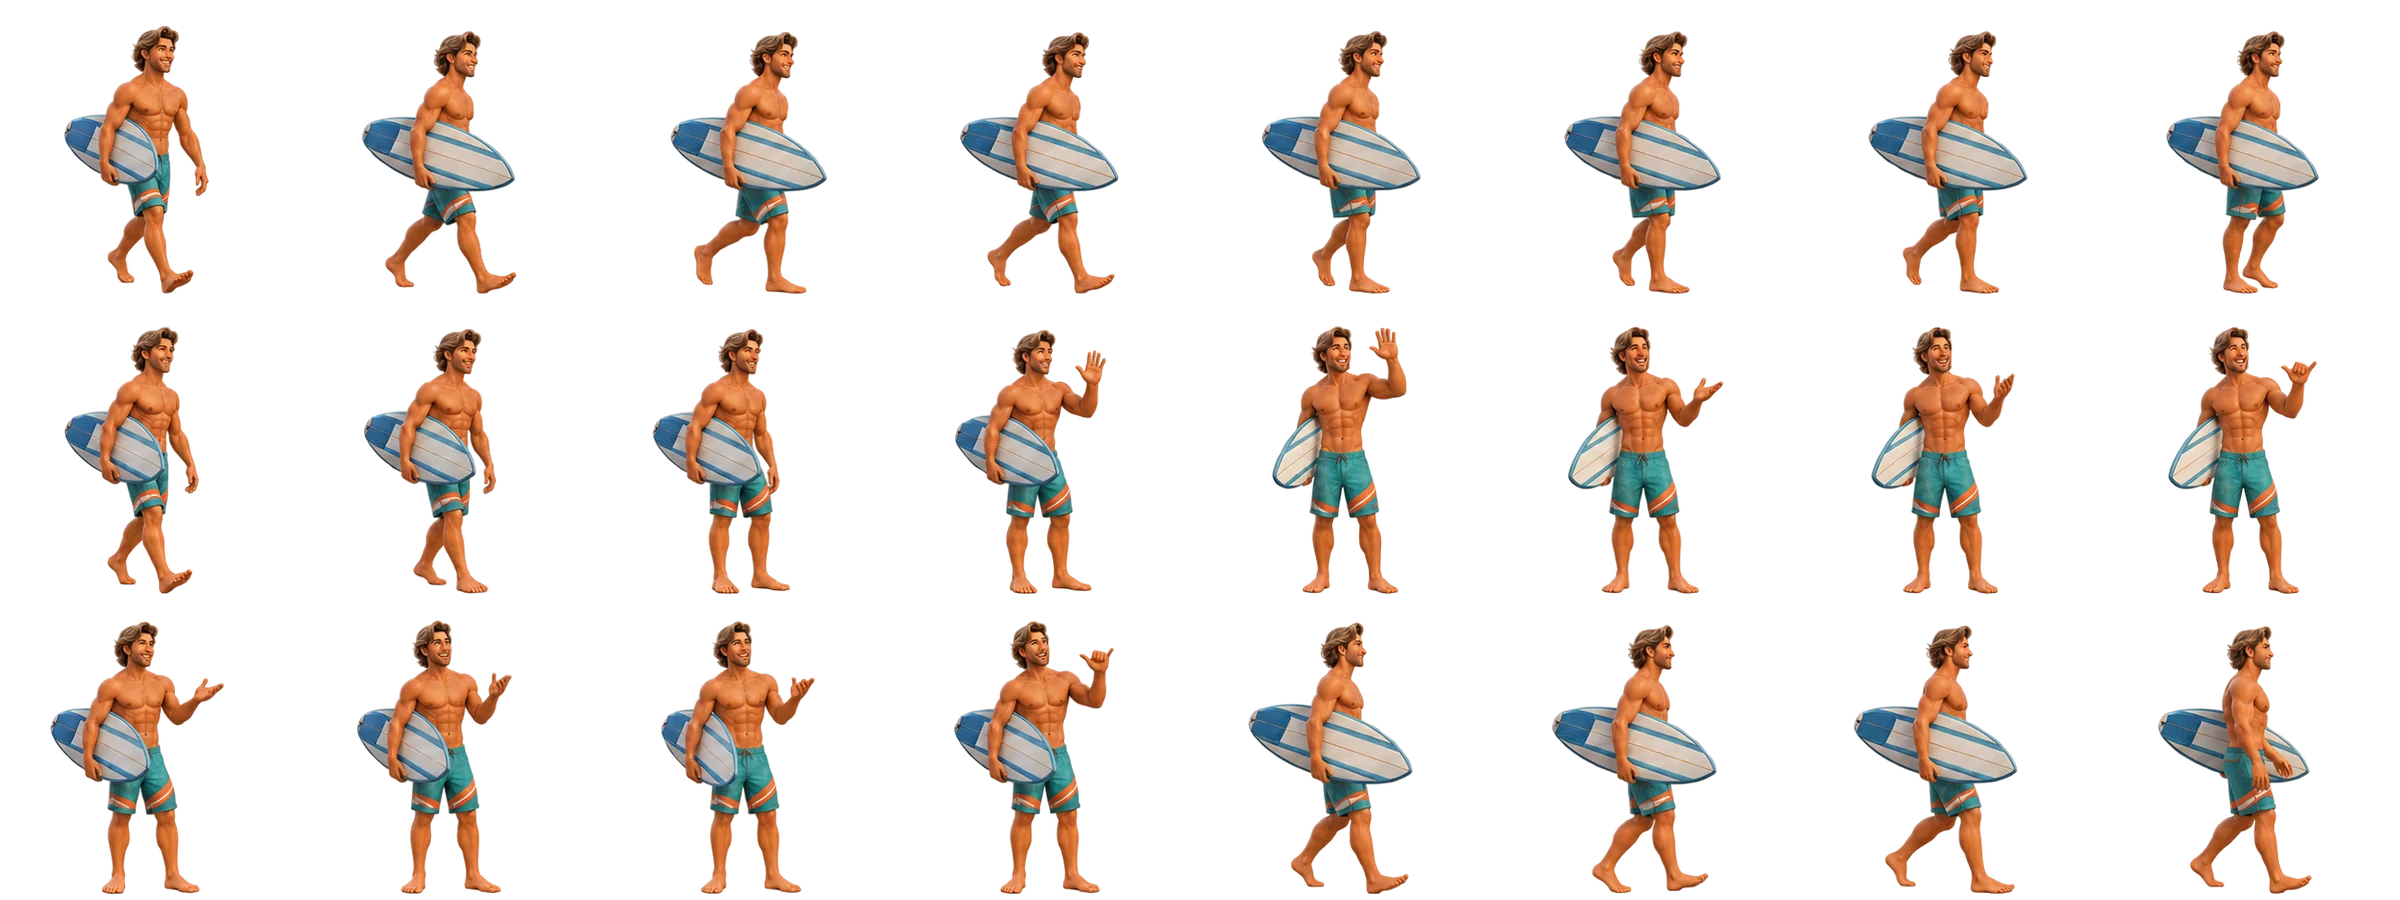
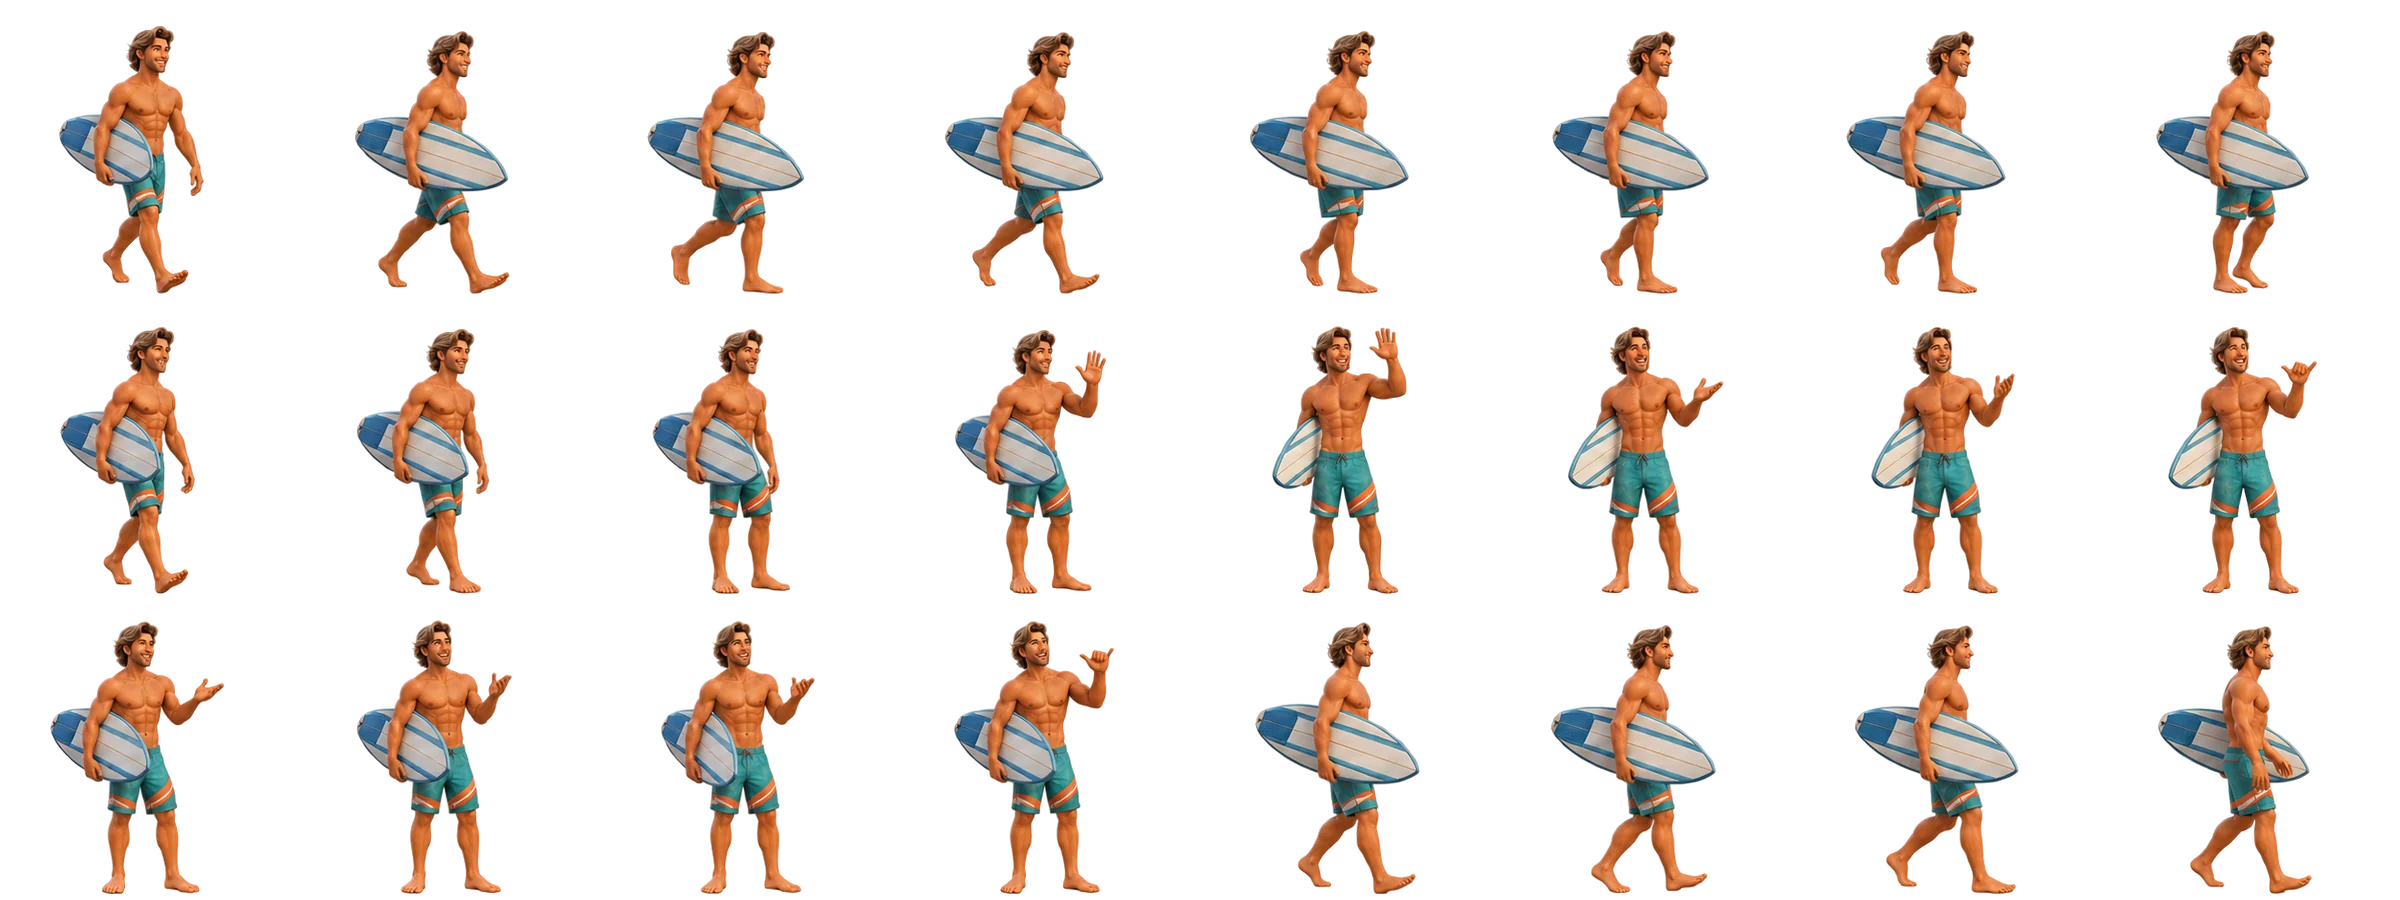
Surfe: Niko e Zé surfista sem vai e volta ao andar (quadros centralizados pelo corpo, passo medido)
Claude-Session: https://claude.ai/code/session_01Gorsa4M7VVk4qQnMQNhv6S

diff --git a/surf-ze.js b/surf-ze.js
@@ -28,13 +28,13 @@ const walk=(atlas,list,step)=>Object.assign(seq(atlas,list),{step});
 const range=n=>Array.from({length:n},(_,i)=>i);
 /* per-frame advance (fraction of the sprite box), measured by following the foot on the ground from one
    frame to the next; the drawings are not perfectly even, so one number per frame keeps the feet planted */
-const STEPS={"ze":[0.021,0.022,0.0264,0.0283,0.0273,0.0229,0.0146,0.0161,0.022,0.0225,0.02,0.0132,0.0146,0.0249,0.0234,0.0151,0.0142,0.0122,0.0127,0.0205,0.022,0.0166,0.0142,0.0181],"brisa":[0.0171,0.0234,0.0312,0.0327,0.0303,0.0234,0.0186,0.021,0.0176,0.0107,0.0186,0.0269,0.0264,0.0308,0.0352,0.0322,0.0264,0.0254,0.0273,0.0254,0.0234,0.02,0.0161,0.0161],"jorge":[0.0206,0.0261,0.0226,0.0234,0.0205,0.0132,0.0197,0.0295,0.028,0.0234,0.0205,0.0166,0.0201,0.0242,0.0227,0.0217,0.0148,0.0153,0.0277,0.0321,0.028,0.0195,0.0093,0.0093],"jorge-chuva":[0.0171,0.0244,0.0205,0.019,0.022,0.0181,0.0171,0.0225,0.0229,0.0239,0.0244,0.0181,0.0171,0.0186,0.0156,0.0176,0.0161,0.0151,0.0239,0.0273,0.0254,0.021,0.0093,0.0059],"jorge-frio":[0.0222,0.0327,0.0305,0.0278,0.022,0.0122,0.0183,0.0249,0.022,0.0264,0.03,0.0278,0.0271,0.0308,0.03,0.0244,0.0229,0.0276,0.0349,0.0349,0.0251,0.0176,0.0137,0.0117]};
-const WALK={ze:walk('walkZe',range(24),STEPS.ze),jorge:walk('walkJorge',range(24),STEPS.jorge),brisa:walk('walkBrisa',range(24),STEPS.brisa),niko:walk('niko',range(10),.035),
+const STEPS={"ze-surf":[0.0164,0.0158,0.0152,0.0158,0.0164,0.0167,0.017,0.0167,0.0164,0.0164],"ze":[0.021,0.022,0.0264,0.0283,0.0273,0.0229,0.0146,0.0161,0.022,0.0225,0.02,0.0132,0.0146,0.0249,0.0234,0.0151,0.0142,0.0122,0.0127,0.0205,0.022,0.0166,0.0142,0.0181],"brisa":[0.0171,0.0234,0.0312,0.0327,0.0303,0.0234,0.0186,0.021,0.0176,0.0107,0.0186,0.0269,0.0264,0.0308,0.0352,0.0322,0.0264,0.0254,0.0273,0.0254,0.0234,0.02,0.0161,0.0161],"jorge":[0.0206,0.0261,0.0226,0.0234,0.0205,0.0132,0.0197,0.0295,0.028,0.0234,0.0205,0.0166,0.0201,0.0242,0.0227,0.0217,0.0148,0.0153,0.0277,0.0321,0.028,0.0195,0.0093,0.0093],"jorge-chuva":[0.0171,0.0244,0.0205,0.019,0.022,0.0181,0.0171,0.0225,0.0229,0.0239,0.0244,0.0181,0.0171,0.0186,0.0156,0.0176,0.0161,0.0151,0.0239,0.0273,0.0254,0.021,0.0093,0.0059],"jorge-frio":[0.0222,0.0327,0.0305,0.0278,0.022,0.0122,0.0183,0.0249,0.022,0.0264,0.03,0.0278,0.0271,0.0308,0.03,0.0244,0.0229,0.0276,0.0349,0.0349,0.0251,0.0176,0.0137,0.0117]};
+const WALK={ze:walk('walkZe',range(24),STEPS.ze),jorge:walk('walkJorge',range(24),STEPS.jorge),brisa:walk('walkBrisa',range(24),STEPS.brisa),niko:walk('niko',range(10),.019),/* Niko's sheet is not an even cycle; average step */
  jorgeRain:walk('walkJorgeRain',range(24),STEPS['jorge-chuva']),jorgeCold:walk('walkJorgeCold',range(24),STEPS['jorge-frio'])};
 /* which outfit rows have a walk cycle that matches the chat pose (0 mild, 1 rain, 2 cold, 3 hot) */
 const JORGE_WALK=[WALK.jorge,WALK.jorgeRain,WALK.jorgeCold,null],ZE_WALK=[WALK.ze,null,null,null];
 const ACTOR={
- ze:{name:'ZÉ',walk:seq('zeWalk',[0,1,2,3,4,5,6,7,8,9]),arrive:seq('zeGreet',[0,1]),talk:seq('zeGreet',[2]),exitWalk:seq('zeWalk',[0,1,2,3,4,5,6,7,8,9])},
+ ze:{name:'ZÉ',walk:walk('zeWalk',range(10),STEPS['ze-surf']),arrive:seq('zeGreet',[0,1]),talk:seq('zeGreet',[2]),exitWalk:walk('zeWalk',range(10),STEPS['ze-surf'])},
  niko:{name:'NIKO',walk:WALK.niko,arrive:seq('niko',[10,11,12,12]),talk:seq('niko',[13,14,16,17,18,15]),bye:seq('niko',[19]),exitWalk:WALK.niko},
  brisa:{name:'BRISA',walk:WALK.brisa,arrive:seq('brisa',[18,19]),talk:seq('brisa',[20,21,22,23,21]),leave:seq('brisa',[18]),exitWalk:WALK.brisa}
 };

diff --git a/index.html b/index.html
@@ -44,4 +44,4 @@
 </main><footer><a class="brand footer-brand" href="#hoje" aria-label="Tempo com Zé"><img class="brand-face" src="assets/ze-face-logo.webp" width="38" height="38" alt="" aria-hidden="true"><span>Tempo <span class="brand-light">com</span> <span class="brand-ze">Zé</span><small class="brand-domain">www.tempocomze.com.br</small></span></a><div>Um pouco mais perto do céu.<br><small><span data-i18n="forecasts">Previsões:</span> <a href="https://open-meteo.com/" target="_blank" rel="noopener">Open-Meteo</a><span data-i18n="attribution"> · Ar: CAMS / Open-Meteo · Cidades: GeoNames</span></small></div><span id="updated">Atualização automática a cada 15 min</span></footer>
 </div>
 <dialog id="detail-dialog"><div class="dialog-heading"><h2 id="dialog-title">Detalhes</h2><button id="close-dialog" class="icon-button" aria-label="Fechar detalhes">×</button></div><div id="dialog-content"></div></dialog><script src="i18n.js?v=12"></script><script src="city-search.js?v=10"></script><script src="app.js?v=16"></script><script src="inmet-alerts.js?v=4"></script><script src="navigation.js?v=10"></script><script src="walk-motion.js?v=10"></script><script src="character-weather.js?v=16"></script><script src="ze-voice.js?v=17"></script><script src="character.js?v=12"></script>
-<script src="surf.js?v=12"></script><script src="surf-falas.js?v=1"></script><script src="surf-ze.js?v=17"></script><script src="ze-touch.js?v=10"></script><script src="install.js?v=10"></script><script src="feedback.js?v=1"></script></body></html>
+<script src="surf.js?v=12"></script><script src="surf-falas.js?v=1"></script><script src="surf-ze.js?v=18"></script><script src="ze-touch.js?v=10"></script><script src="install.js?v=10"></script><script src="feedback.js?v=1"></script></body></html>

diff --git a/sw.js b/sw.js
@@ -2,7 +2,7 @@
    Page: network first (falls back to the saved copy if the network is slow or offline).
    Versioned files (?v=) never change, so they are served straight from the cache.
    Images and sounds: answer from the cache at once and refresh it in the background. */
-const CACHE='tempo-com-ze-v32';
+const CACHE='tempo-com-ze-v33';
 const PAGE_TIMEOUT=3500;
 self.addEventListener('install',e=>{self.skipWaiting();});
 self.addEventListener('activate',e=>{e.waitUntil(caches.keys().then(keys=>Promise.all(keys.filter(k=>k!==CACHE).map(k=>caches.delete(k)))).then(()=>self.clients.claim()));});

diff --git a/scripts/montar_sprites_surfe.py b/scripts/montar_sprites_surfe.py
@@ -69,10 +69,10 @@ def feet_x(img):
     return (xs.min() + xs.max()) / 2 if len(xs) else a.shape[1] / 2
 
 
-def torso_x(img):
+def torso_x(img, part=0.35):
     """Centro da cabeça e do tronco (35% de cima): numa caminhada o corpo fica parado e as pernas mexem."""
     a = img[:, :, 3] > 40
-    top = a[:int(a.shape[0] * 0.35)]
+    top = a[:int(a.shape[0] * part)]
     xs = np.where(top.any(0))[0]
     return (xs.min() + xs.max()) / 2
 
@@ -124,17 +124,18 @@ def duo(name, cell=256):
     return frames, standing(partner) * scale / cell
 
 
-def solo(name, cols, ratio, cell=300):
+def solo(name, cols, ratio, cell=300, walking=()):
     found = [p for p in pieces(SRC / name) if p['h'] > 120]   # o balão desenhado fica de fora
     assert len(found) == 24, (name, len(found))
     rows = sorted(found, key=lambda p: p['y0'])
     order = []
     for r in range(3 if cols == 8 else 4):
         order += sorted(rows[r * cols:(r + 1) * cols], key=lambda p: p['x0'])
-    walking = [p['h'] for p in order[:8]]
-    scale = ratio * cell / float(np.median(walking))
+    heights = [p['h'] for p in order[:8]]
+    scale = ratio * cell / float(np.median(heights))
     scale = min(scale, (FEET - 0.01) * cell / max(p['h'] for p in order))
-    return [place(p['img'], scale, cell) for p in order]
+    head = lambda img: torso_x(img, 0.16)   # só a cabeça: a prancha debaixo do braço desloca o tronco
+    return [place(p['img'], scale, cell, head if k in walking else None) for k, p in enumerate(order)]
 
 
 def sea():
@@ -213,9 +214,34 @@ ratios = {}
 for who in ['ze', 'niko', 'brisa']:
     frames, ratios[who] = duo(f'duo-{who}-jorge.png')
     save(frames, 12, 256, f'surf-duo-{who}.webp')
-save(solo('niko-solo.png', 8, ratios['niko']), 8, 300, 'surf-niko.webp')
+niko_frames = solo('niko-solo.png', 8, ratios['niko'], walking=set(range(10)) | set(range(20, 24)))
+save(niko_frames, 8, 300, 'surf-niko.webp')
 save(solo('brisa-solo.png', 6, ratios['brisa']), 8, 300, 'surf-brisa.webp')
 sea()
+def reanchor(src, cols, rows, out):
+    im = Image.open(src).convert('RGBA')
+    cw, ch = im.width // cols, im.height // rows
+    atlas = Image.new('RGBA', im.size)
+    frames = []
+    for k in range(cols * rows):
+        cell = np.array(im.crop(((k % cols) * cw, (k // cols) * ch, (k % cols + 1) * cw, (k // cols + 1) * ch)))
+        a = cell[:, :, 3] > 40
+        ys, xs = np.where(a)
+        body = cell[ys.min():ys.max() + 1, xs.min():xs.max() + 1]
+        shift = round(cw / 2 - (xs.min() + torso_x(body)))
+        moved = Image.new('RGBA', (cw, ch))
+        moved.paste(Image.fromarray(cell), (shift, 0), Image.fromarray(cell))
+        atlas.alpha_composite(moved, ((k % cols) * cw, (k // cols) * ch))
+        frames.append(moved)
+    atlas.save(OUT / out, 'WEBP', quality=86, method=6)
+    return frames, cw
+
+
+if (SRC / 'ze-surf-walk-10-original.webp').exists():
+    zs, zc = reanchor(SRC / 'ze-surf-walk-10-original.webp', 5, 2, 'ze-surf-walk-10.webp')
+    STEPS['ze-surf'] = foot_steps(zs, 1, zc)
+STEPS['niko'] = foot_steps(niko_frames[:10], 1, 300)
+
 ratios['jorge'] = JORGE
 # (nome do arquivo walk-NOME.png, proporção do personagem, sentido em que anda no site, espelhar?)
 CICLOS = [('ze', 'ze', 1, False), ('brisa', 'brisa', 1, False), ('jorge', 'jorge', -1, False),
